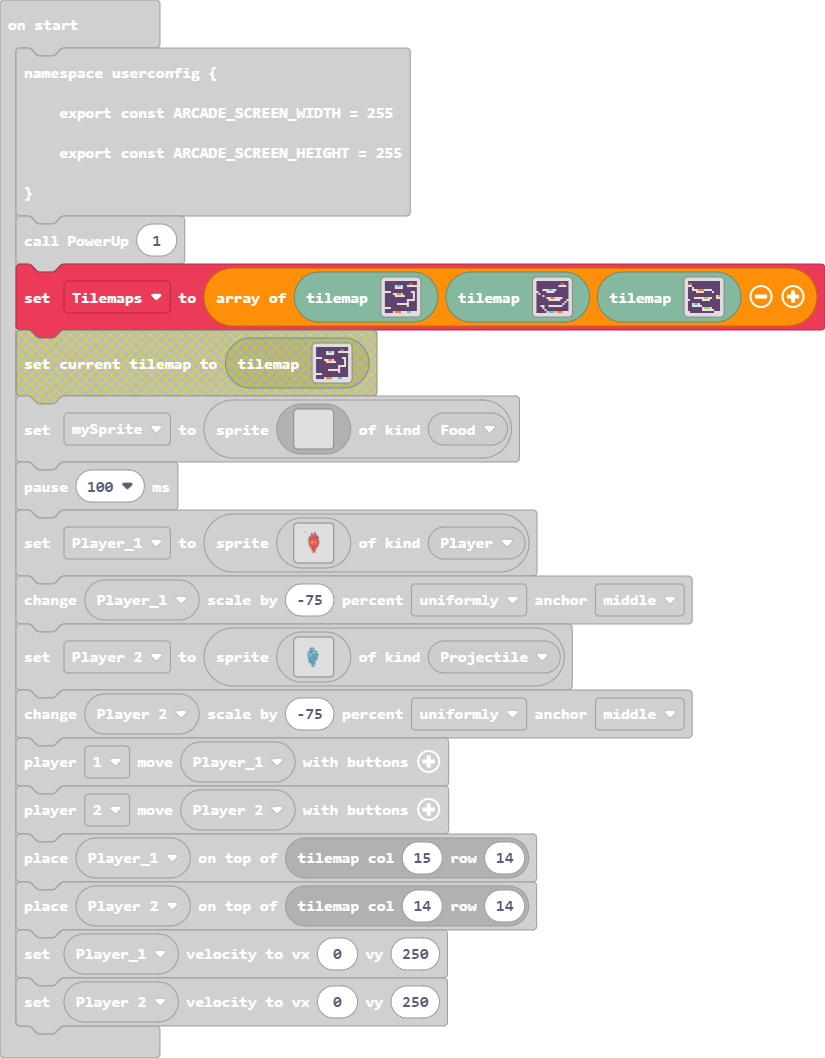
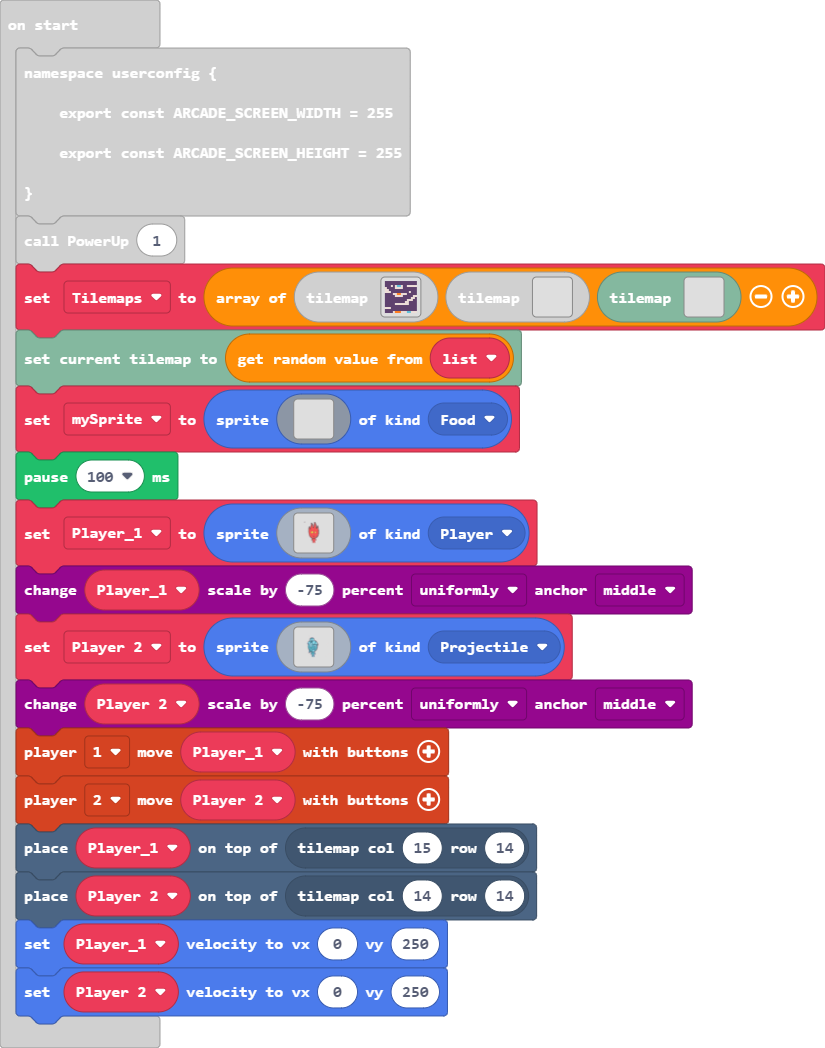
Update main.blocks, main.ts, tilemap.g.jres, tilemap.g.ts, images.g.jres, images.g.ts

diff --git a/tilemap.g.ts b/tilemap.g.ts
@@ -6,8 +6,6 @@ namespace myTiles {
     export const transparency8 = image.ofBuffer(hex``);
     //% fixedInstance jres blockIdentity=images._tile
     export const tile1 = image.ofBuffer(hex``);
-    //% fixedInstance jres blockIdentity=images._tile
-    export const tile2 = image.ofBuffer(hex``);
 
     helpers._registerFactory("tilemap", function(name: string) {
         switch(helpers.stringTrim(name)) {
@@ -48,8 +46,8 @@ namespace myTiles {
 . . . . . . . . . . . . . . . . 
 . . . . . . . . . . . . . . . . 
 `, [myTiles.transparency16], TileScale.Sixteen);
-            case "level0":
-            case "level4":return tiles.createTilemap(hex`1000100000000000000000000000000000000000000000000000000000000000000000000000000000000000000000000000000000000000000000000000000000000000000000000000000000000000000000000000000000000000000000000000000000000000000000000000000000000000000000000000000000000000000000000000000000000000000000000000000000000000000000000000000000000000000000000000000000000000000000000000000000000000000000000000000000000000000000000000000000000000000000000000000000000000000000000000000000000000000000000000000000000000000000000000000000000000`, img`
+            case "level3":
+            case "level3":return tiles.createTilemap(hex`1000100000000000000000000000000000000000000000000000000000000000000000000000000000000000000000000000000000000000000000000000000000000000000000000000000000000000000000000000000000000000000000000000000000000000000000000000000000000000000000000000000000000000000000000000000000000000000000000000000000000000000000000000000000000000000000000000000000000000000000000000000000000000000000000000000000000000000000000000000000000000000000000000000000000000000000000000000000000000000000000000000000000000000000000000000000000000`, img`
 . . . . . . . . . . . . . . . . 
 . . . . . . . . . . . . . . . . 
 . . . . . . . . . . . . . . . . 
@@ -68,26 +66,26 @@ namespace myTiles {
 . . . . . . . . . . . . . . . . 
 `, [myTiles.transparency16], TileScale.Sixteen);
             case "level 1":
-            case "level 1":return tiles.createTilemap(hex`1000100001010101010101010101010101010101010101010101010101010101060601010101010101020404020101020202020201010101010202020201010101010101010101010101010101010101010101010202020101010101010101010102020101010101020203030201010101010201010101010102020202020101010102010101010101010101010101010101020101010101010101010101010202020201010101010101010101010102010101010101010101010202020202020101010101010101010101010101010201010101020202010101010101010101010101010101010101010101010101010101010101010101020505050202020404020202`, img`
+            case "level 1":return tiles.createTilemap(hex`1000100001010101010101010101010101010101010101010101010101010101010101010101010201020404020101020202020202010101010202020201010101010101020201010101010101010101010101010202020101010101010101010201010101010101020203030202020101010101010101010102020202010101010102020101010101010101010101010102020101010101010101010101010202020101010101010101010101010202010101010101010101020202020202020101010101010101010101010101010101010101020202010101010101010101010101010101010101010101010101010101010101010101020505050202020404020202`, img`
 . . . . . . . . . . . . . . . . 
 . . . . . . . . . . . . . . . . 
-. . . . . 2 . . 2 . . 2 2 2 2 2 
-. . . . . 2 2 2 2 . . . . . . . 
+. . . 2 . 2 . . 2 . . 2 2 2 2 2 
+2 . . . . 2 2 2 2 . . . . . . . 
+2 2 . . . . . . . . . . . . . . 
+2 2 2 . . . . . . . . . 2 . . . 
+. . . . 2 2 . . 2 2 2 . . . . . 
+. . . . . 2 2 2 2 . . . . . 2 2 
+. . . . . . . . . . . . . 2 2 . 
+. . . . . . . . . . . 2 2 2 . . 
+. . . . . . . . . . 2 2 . . . . 
+. . . . . 2 2 2 2 2 2 2 . . . . 
 . . . . . . . . . . . . . . . . 
-2 2 2 . . . . . . . . . . 2 2 . 
-. . . . 2 2 . . 2 . . . . . 2 . 
-. . . . . 2 2 2 2 2 . . . . 2 . 
-. . . . . . . . . . . . . . 2 . 
-. . . . . . . . . . . 2 2 2 2 . 
-. . . . . . . . . . . 2 . . . . 
-. . . . . . 2 2 2 2 2 2 . . . . 
-. . . . . . . . . . . 2 . . . . 
 2 2 2 . . . . . . . . . . . . . 
 . . . . . . . . . . . . . . . . 
 . . . . 2 . . . 2 2 2 . . 2 2 2 
-`, [myTiles.transparency16,sprites.dungeon.darkGroundCenter,sprites.builtin.brick,sprites.dungeon.hazardLava1,sprites.dungeon.hazardWater,sprites.dungeon.hazardLava0,sprites.dungeon.chestClosed], TileScale.Sixteen);
-            case "level7":
-            case "level7":return tiles.createTilemap(hex`1000100000000000000000000000000000000000000000000000000000000000000000000000000000000000000000000000000000000000000000000000000000000000000000000000000000000000000000000000000000000000000000000000000000000000000000000000000000000000000000000000000000000000000000000000000000000000000000000000000000000000000000000000000000000000000000000000000000000000000000000000000000000000000000000000000000000000000000000000000000000000000000000000000000000000000000000000000000000000000000000000000000000000000000000000000000000000`, img`
+`, [myTiles.transparency16,sprites.dungeon.darkGroundCenter,sprites.builtin.brick,sprites.dungeon.hazardLava1,sprites.dungeon.hazardWater,sprites.dungeon.hazardLava0], TileScale.Sixteen);
+            case "level4":
+            case "level4":return tiles.createTilemap(hex`1000100000000000000000000000000000000000000000000000000000000000000000000000000000000000000000000000000000000000000000000000000000000000000000000000000000000000000000000000000000000000000000000000000000000000000000000000000000000000000000000000000000000000000000000000000000000000000000000000000000000000000000000000000000000000000000000000000000000000000000000000000000000000000000000000000000000000000000000000000000000000000000000000000000000000000000000000000000000000000000000000000000000000000000000000000000000000`, img`
 . . . . . . . . . . . . . . . . 
 . . . . . . . . . . . . . . . . 
 . . . . . . . . . . . . . . . . 
@@ -104,28 +102,9 @@ namespace myTiles {
 . . . . . . . . . . . . . . . . 
 . . . . . . . . . . . . . . . . 
 . . . . . . . . . . . . . . . . 
-`, [myTiles.transparency16], TileScale.Sixteen);
-            case "level":
-            case "level3":return tiles.createTilemap(hex`1000100001010101010101010101010101010101010101010101010101010101060601010101010101010101010101020202020101010101010101010101010101010101010101020202050502020101010101010201010101020202020101010101010101020101010101010101010101010101010101020101010101010101010101010101010101020203040202020201010101010101010102020202020201010102010101010101010101010101010102010101010101010101010101010102010101010202010102020202020202010101010101020101010101010101010101010101010102010101010101010101010101010101010205050502030403020202`, img`
-. . . . . . . . . . . . . . . . 
-. . . . . . . . . . . . . . . . 
-. . . . . . . . . . . 2 2 2 2 . 
-. . . . . . . . . . . . . . . . 
-. . . 2 2 2 . . 2 2 . . . . . . 
-2 . . . . 2 2 2 2 . . . . . . . 
-. 2 . . . . . . . . . . . . . . 
-. . . 2 . . . . . . . . . . . . 
-. . . . . 2 2 . . 2 2 2 2 . . . 
-. . . . . . 2 2 2 2 2 2 . . . 2 
-. . . . . . . . . . . . . . 2 . 
-. . . . . . . . . . . . . 2 . . 
-. . 2 2 . . 2 2 2 2 2 2 2 . . . 
-. . . 2 . . . . . . . . . . . . 
-. . . . 2 . . . . . . . . . . . 
-. . . . . 2 . . . 2 . . . 2 2 2 
-`, [myTiles.transparency16,sprites.dungeon.darkGroundCenter,sprites.builtin.brick,sprites.dungeon.hazardLava1,sprites.dungeon.hazardLava0,sprites.dungeon.hazardWater,sprites.dungeon.chestClosed], TileScale.Sixteen);
-            case "level8":
-            case "level8":return tiles.createTilemap(hex`1000100000000000000000000000000000000000000000000000000000000000000000000000000000000000000000000000000000000000000000000000000000000000000000000000000000000000000000000000000000000000000000000000000000000000000000000000000000000000000000000000000000000000000000000000000000000000000000000000000000000000000000000000000000000000000000000000000000000000000000000000000000000000000000000000000000000000000000000000000000000000000000000000000000000000000000000000000000000000000000000000000000000000000000000000000000000000`, img`
+`, [], -Infinity);
+            case "level5":
+            case "level5":return tiles.createTilemap(hex`1000100000000000000000000000000000000000000000000000000000000000000000000000000000000000000000000000000000000000000000000000000000000000000000000000000000000000000000000000000000000000000000000000000000000000000000000000000000000000000000000000000000000000000000000000000000000000000000000000000000000000000000000000000000000000000000000000000000000000000000000000000000000000000000000000000000000000000000000000000000000000000000000000000000000000000000000000000000000000000000000000000000000000000000000000000000000000`, img`
 . . . . . . . . . . . . . . . . 
 . . . . . . . . . . . . . . . . 
 . . . . . . . . . . . . . . . . 
@@ -144,26 +123,7 @@ namespace myTiles {
 . . . . . . . . . . . . . . . . 
 `, [myTiles.transparency16], TileScale.Sixteen);
             case "level6":
-            case "level5":return tiles.createTilemap(hex`1000100001010101010101010101010101010101060601010101010101010101010101010202010101010101010101010101010101010201010101010101010101010101010102020204040402020202010101010101010102020202010101010201010101010101010101010101010101010101010101010101010101010101010102040101010202020202030302020101020202010101010101020202020101010101010101010101010101010101010101010101020505020101010101010101010101010202020202010101010101010101010101010101010203030302010101010101010101010102020202020201010102010101010101010101010101020202`, img`
-. . . . . . . . . . . . . . . . 
-. . . . . . . . . . . . . . . . 
-2 2 . . . . . . . . . . . . . . 
-. . 2 . . . . . . . . . . . . . 
-. . 2 2 2 . . . 2 2 2 2 . . . . 
-. . . . 2 2 2 2 . . . . 2 . . . 
-. . . . . . . . . . . . . . . . 
-. . . . . . . . . . . . . . 2 . 
-. . . 2 2 2 2 2 . . 2 2 . . 2 2 
-2 . . . . . . 2 2 2 2 . . . . . 
-. . . . . . . . . . . . . . . . 
-. . 2 . . 2 . . . . . . . . . . 
-. . 2 2 2 2 2 . . . . . . . . . 
-. . . . . . . 2 . . . 2 . . . . 
-. . . . . . . 2 2 2 2 2 2 . . . 
-. . . . . . . . . . . . . 2 2 2 
-`, [myTiles.transparency16,sprites.dungeon.darkGroundCenter,sprites.builtin.brick,sprites.builtin.field0,sprites.dungeon.hazardLava0,sprites.dungeon.hazardWater,sprites.dungeon.chestClosed], TileScale.Sixteen);
-            case "level9":
-            case "level9":return tiles.createTilemap(hex`1000100000000000000000000000000000000000000000000000000000000000000000000000000000000000000000000000000000000000000000000000000000000000000000000000000000000000000000000000000000000000000000000000000000000000000000000000000000000000000000000000000000000000000000000000000000000000000000000000000000000000000000000000000000000000000000000000000000000000000000000000000000000000000000000000000000000000000000000000000000000000000000000000000000000000000000000000000000000000000000000000000000000000000000000000000000000000`, img`
+            case "level6":return tiles.createTilemap(hex`1000100000000000000000000000000000000000000000000000000000000000000000000000000000000000000000000000000000000000000000000000000000000000000000000000000000000000000000000000000000000000000000000000000000000000000000000000000000000000000000000000000000000000000000000000000000000000000000000000000000000000000000000000000000000000000000000000000000000000000000000000000000000000000000000000000000000000000000000000000000000000000000000000000000000000000000000000000000000000000000000000000000000000000000000000000000000000`, img`
 . . . . . . . . . . . . . . . . 
 . . . . . . . . . . . . . . . . 
 . . . . . . . . . . . . . . . . 
@@ -181,8 +141,8 @@ namespace myTiles {
 . . . . . . . . . . . . . . . . 
 . . . . . . . . . . . . . . . . 
 `, [myTiles.transparency16], TileScale.Sixteen);
-            case "level10":
-            case "level10":return tiles.createTilemap(hex`1000100000000000000000000000000000000000000000000000000000000000000000000000000000000000000000000000000000000000000000000000000000000000000000000000000000000000000000000000000000000000000000000000000000000000000000000000000000000000000000000000000000000000000000000000000000000000000000000000000000000000000000000000000000000000000000000000000000000000000000000000000000000000000000000000000000000000000000000000000000000000000000000000000000000000000000000000000000000000000000000000000000000000000000000000000000000000`, img`
+            case "level7":
+            case "level7":return tiles.createTilemap(hex`1000100000000000000000000000000000000000000000000000000000000000000000000000000000000000000000000000000000000000000000000000000000000000000000000000000000000000000000000000000000000000000000000000000000000000000000000000000000000000000000000000000000000000000000000000000000000000000000000000000000000000000000000000000000000000000000000000000000000000000000000000000000000000000000000000000000000000000000000000000000000000000000000000000000000000000000000000000000000000000000000000000000000000000000000000000000000000`, img`
 . . . . . . . . . . . . . . . . 
 . . . . . . . . . . . . . . . . 
 . . . . . . . . . . . . . . . . 
@@ -210,8 +170,6 @@ namespace myTiles {
             case "transparency8":return transparency8;
             case "myTile":
             case "tile1":return tile1;
-            case "myTile0":
-            case "tile2":return tile2;
         }
         return null;
     })

diff --git a/images.g.ts b/images.g.ts
@@ -228,25 +228,6 @@ namespace myImages {
 .....................................................................................................................................................
 .....................................................................................................................................................
 `;
-            case "image4":
-            case "myImage0":return img`
-. . . . . . . . . . . . . . . . 
-. . . . . . 7 . . . . . . . . . 
-. . . 7 7 . . 7 7 . . . . . . . 
-. . . . . . . . . . . . . . . . 
-. . 7 7 7 . . . . . . . . . . . 
-. . . 7 7 . . . . . . . . . . . 
-. . . 7 7 . . . . . . . . . . . 
-. 7 . . . . . . . . . . . . . . 
-. 7 . . . . . . . . . . . . . . 
-. 7 . . . . . . . . . . . . . . 
-. . . . . . . . . . . . . . . . 
-. . . . . . . . . . . . . . . . 
-. . . . . . . . . . . . . . . . 
-. . . . . . . . . . . . . . . . 
-. . . . . . . . . . . . . . . . 
-. . . . . . . . . . . . . . . . 
-`;
         }
         return null;
     })

diff --git a/main.ts b/main.ts
@@ -17,12 +17,14 @@ scene.onOverlapTile(SpriteKind.Projectile, sprites.dungeon.hazardLava1, function
 })
 let Player_2: Sprite = null
 let Player_1: Sprite = null
+let list: tiles.WorldMap[] = []
 namespace userconfig {
     export const ARCADE_SCREEN_WIDTH = 255
     export const ARCADE_SCREEN_HEIGHT = 255
 }
 PowerUp(1)
-let Tilemaps = [tiles.createMap(tilemap`level 1`), tiles.createMap(tilemap`level`), tiles.createMap(tilemap`level6`)]
+let Tilemaps = [tiles.createMap(tilemap`level 1`), tiles.createMap(tilemap`level3`), tiles.createMap(tilemap`level4`)]
+tiles.loadMap(list._pickRandom())
 let mySprite = sprites.create(img`
     . . . . . . . . . . . . . . . . 
     . . . . . . . . . . . . . . . . 
